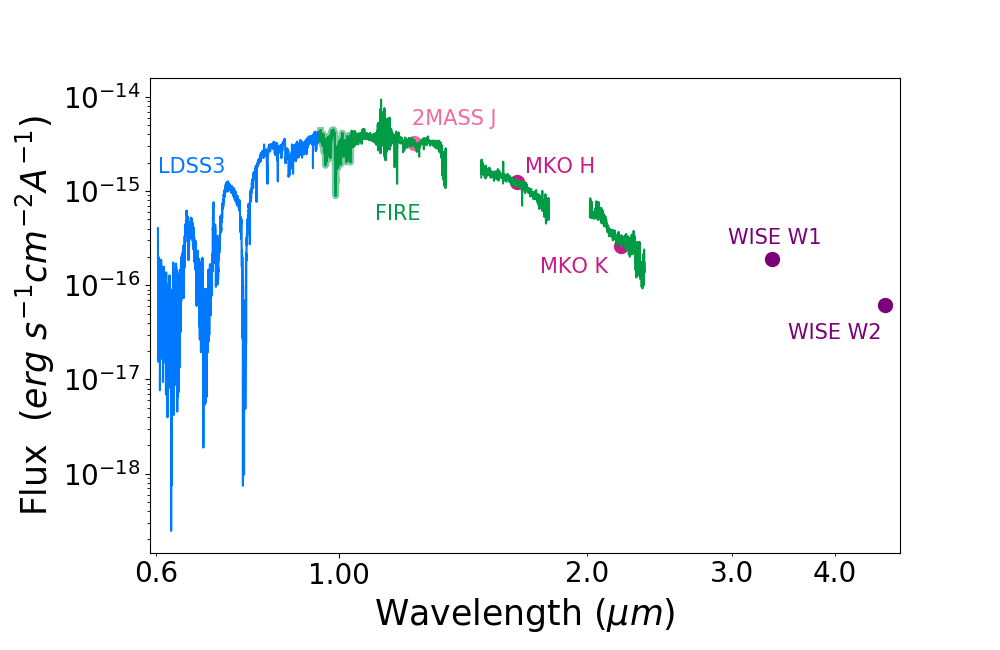
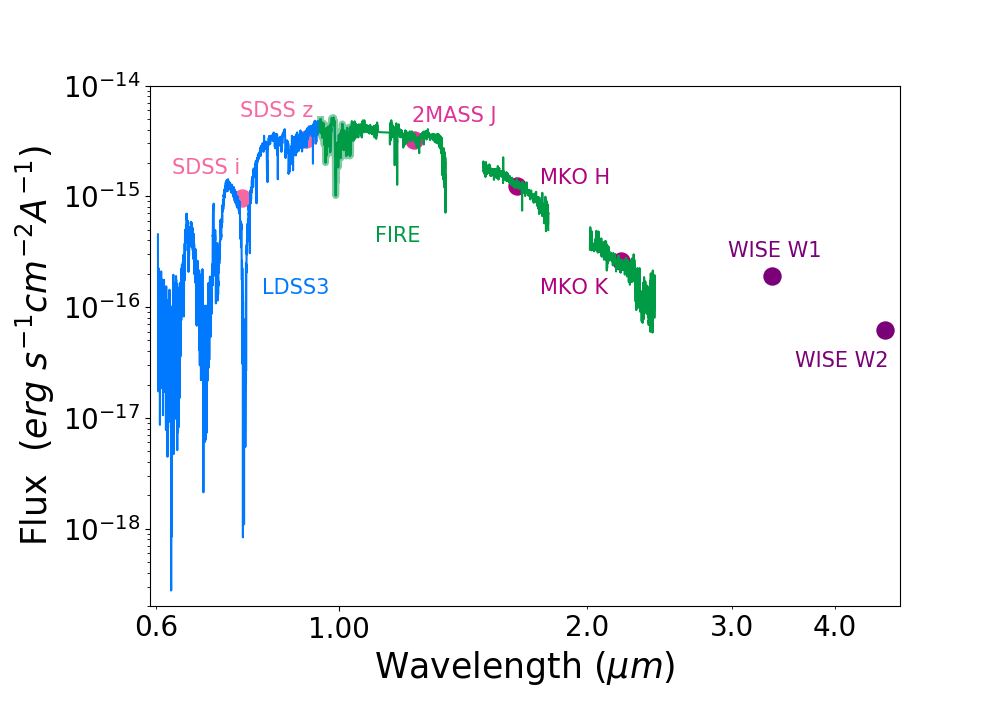
Updated to use the correct SED file with new photometric points

diff --git a/regimes.py b/regimes.py
@@ -9,8 +9,8 @@ from matplotlib.ticker import ScalarFormatter
 
 # ------------ 1256-0224 (Poster in SED)----------------
 # Read in as pandas dataframe
-df = pd.read_csv('Redone/best1256-0224 (L3.5sd) SED.txt', sep=" ", header=1, names=["w", "f", "err"])
-df2 = pd.read_csv('Redone/best1256-0224 (L3.5sd) phot.txt', sep=" ", header=1, names=["w", "f", "err"])
+df = pd.read_csv('Redone/FIRE_rereduced1256-0224 (L3.5sd) SED.txt', sep=" ", header=1, names=["w", "f", "err"])
+df2 = pd.read_csv('Redone/FIRE_rereduced1256-0224 (L3.5sd) phot.txt', sep=" ", header=1, names=["w", "f", "err"])
 
 
 # -------------------------------------------------------------------------------------
@@ -40,14 +40,17 @@ ax1.loglog(h['w'], h['f'], c='#009B45')
 ax1.loglog(k['w'], k['f'], c='#009B45')
 
 # ----- Plot Photometric points -----
-ax1.scatter(df2['w'][0], df2['f'][0],  c='#f768a1', s=100)
-ax1.scatter(df2['w'][1], df2['f'][1],  c='#c51b8a', s=100)
-ax1.scatter(df2['w'][2], df2['f'][2],  c='#c51b8a', s=100)
-ax1.scatter(df2['w'][3], df2['f'][3],  c='#7a0177', s=100)
-ax1.scatter(df2['w'][4], df2['f'][4],  c='#7a0177', s=100)
+ax1.scatter(df2['w'][0], df2['f'][0],  c='#dd3497', s=150)  # 2Mass J
+ax1.scatter(df2['w'][1], df2['f'][1],  c='#ae017e', s=150)  # MKO_H
+ax1.scatter(df2['w'][2], df2['f'][2],  c='#ae017e', s=150)  # MKO_K
+ax1.scatter(df2['w'][3], df2['f'][3],  c='#f768a1', s=150)  # SDSS_i
+ax1.scatter(df2['w'][4], df2['f'][4],  c='#f768a1', s=150)  # SDSS_z
+ax1.scatter(df2['w'][5], df2['f'][5],  c='#7a0177', s=150)  # WISE_W1
+ax1.scatter(df2['w'][6], df2['f'][6],  c='#7a0177', s=150)  #WISE_W2
 
 # ----- Set X axis limit, reformat ticks -----------
 plt.xlim([0.59, 4.8])
+plt.ylim([2*10**(-19), 10**(-14)])
 ax1.xaxis.set_major_formatter(ScalarFormatter())
 ax1.xaxis.set_minor_formatter(ScalarFormatter())
 ax1.xaxis.set_minor_locator(plt.FixedLocator([0.6, 2, 3, 4]))
@@ -61,12 +64,14 @@ plt.ylabel('Flux  ($erg\ s^{-1} cm^{-2} A^{-1}$)', fontsize=25)
 
 # ------ Labeling Spectra and Photometric points --------
 ax1.text(0.3, 0.7, 'FIRE', transform=ax1.transAxes, color='#009B45', fontsize=15)
-ax1.text(0.01, 0.8, 'LDSS3', transform=ax1.transAxes, color='#0179FF', fontsize=15)
-ax1.text(0.77, 0.65, 'WISE W1', transform=ax1.transAxes, color='#7a0177', fontsize=15)
-ax1.text(0.85, 0.45, 'WISE W2', transform=ax1.transAxes, color='#7a0177', fontsize=15)
-ax1.text(0.5, 0.8, 'MKO H', transform=ax1.transAxes, color='#c51b8a', fontsize=15)
-ax1.text(0.52, 0.59, 'MKO K', transform=ax1.transAxes, color='#c51b8a', fontsize=15)
-ax1.text(0.35, 0.9, '2MASS J', transform=ax1.transAxes, color='#f768a1', fontsize=15)
+ax1.text(0.15, 0.6, 'LDSS3', transform=ax1.transAxes, color='#0179FF', fontsize=15)
+ax1.text(0.77, 0.67, 'WISE W1', transform=ax1.transAxes, color='#7a0177', fontsize=15)
+ax1.text(0.86, 0.46, 'WISE W2', transform=ax1.transAxes, color='#7a0177', fontsize=15)
+ax1.text(0.52, 0.81, 'MKO H', transform=ax1.transAxes, color='#ae017e', fontsize=15)
+ax1.text(0.52, 0.6, 'MKO K', transform=ax1.transAxes, color='#ae017e', fontsize=15)
+ax1.text(0.35, 0.93, '2MASS J', transform=ax1.transAxes, color='#dd3497', fontsize=15)
+ax1.text(0.03, 0.83, 'SDSS i', transform=ax1.transAxes, color='#f768a1', fontsize=15)
+ax1.text(0.12, 0.94, 'SDSS z', transform=ax1.transAxes, color='#f768a1', fontsize=15)
 
 plt.savefig('Plots/regimes.png')
 
